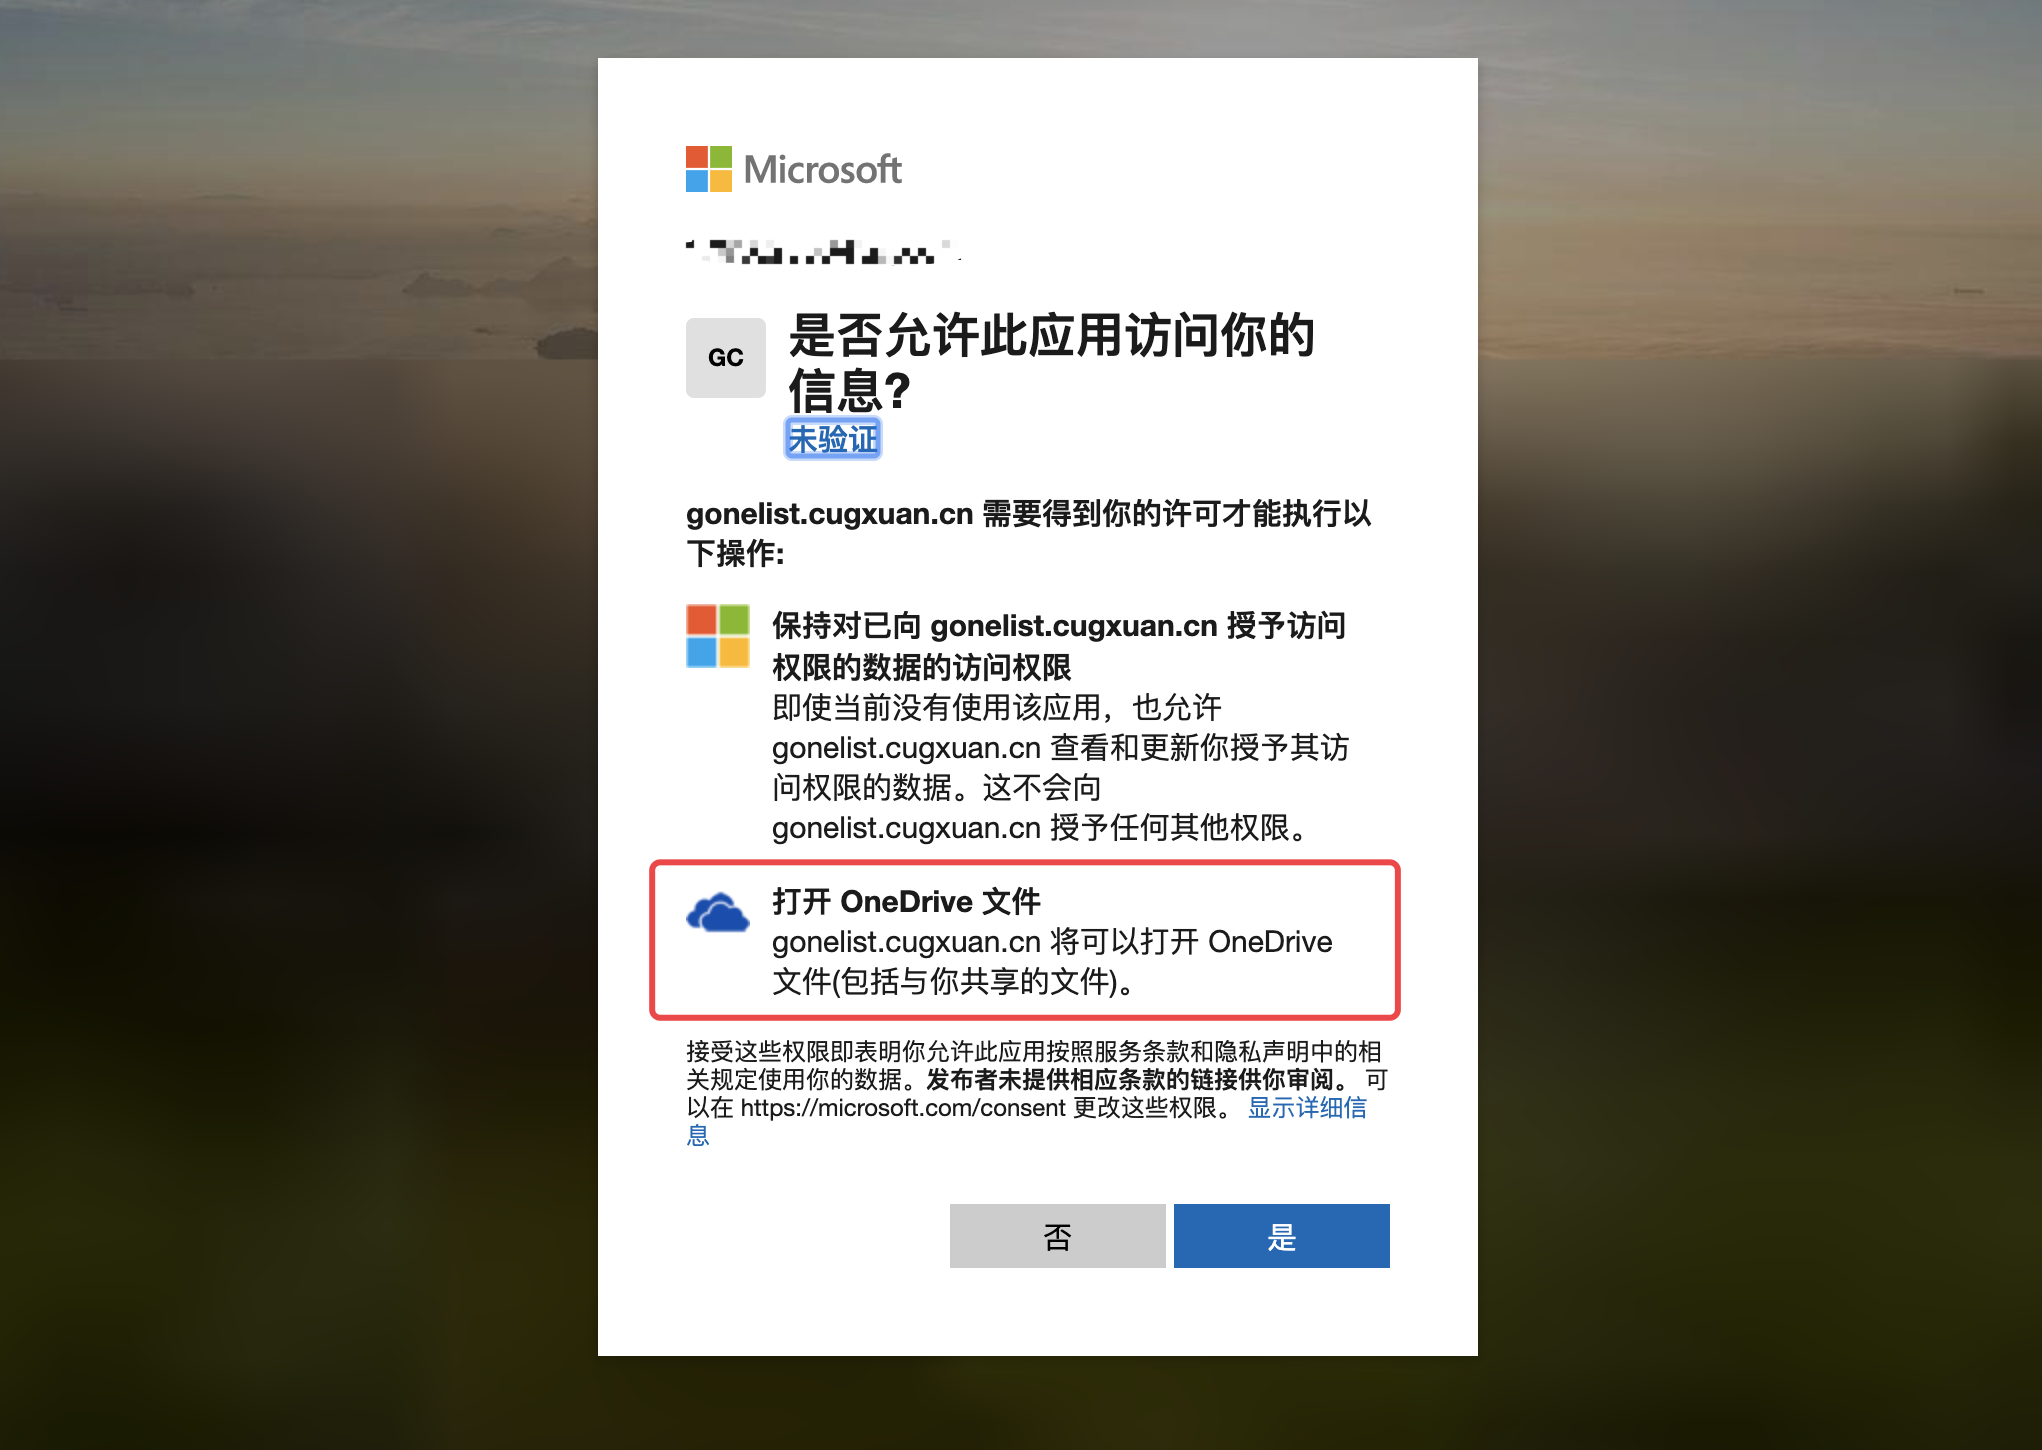
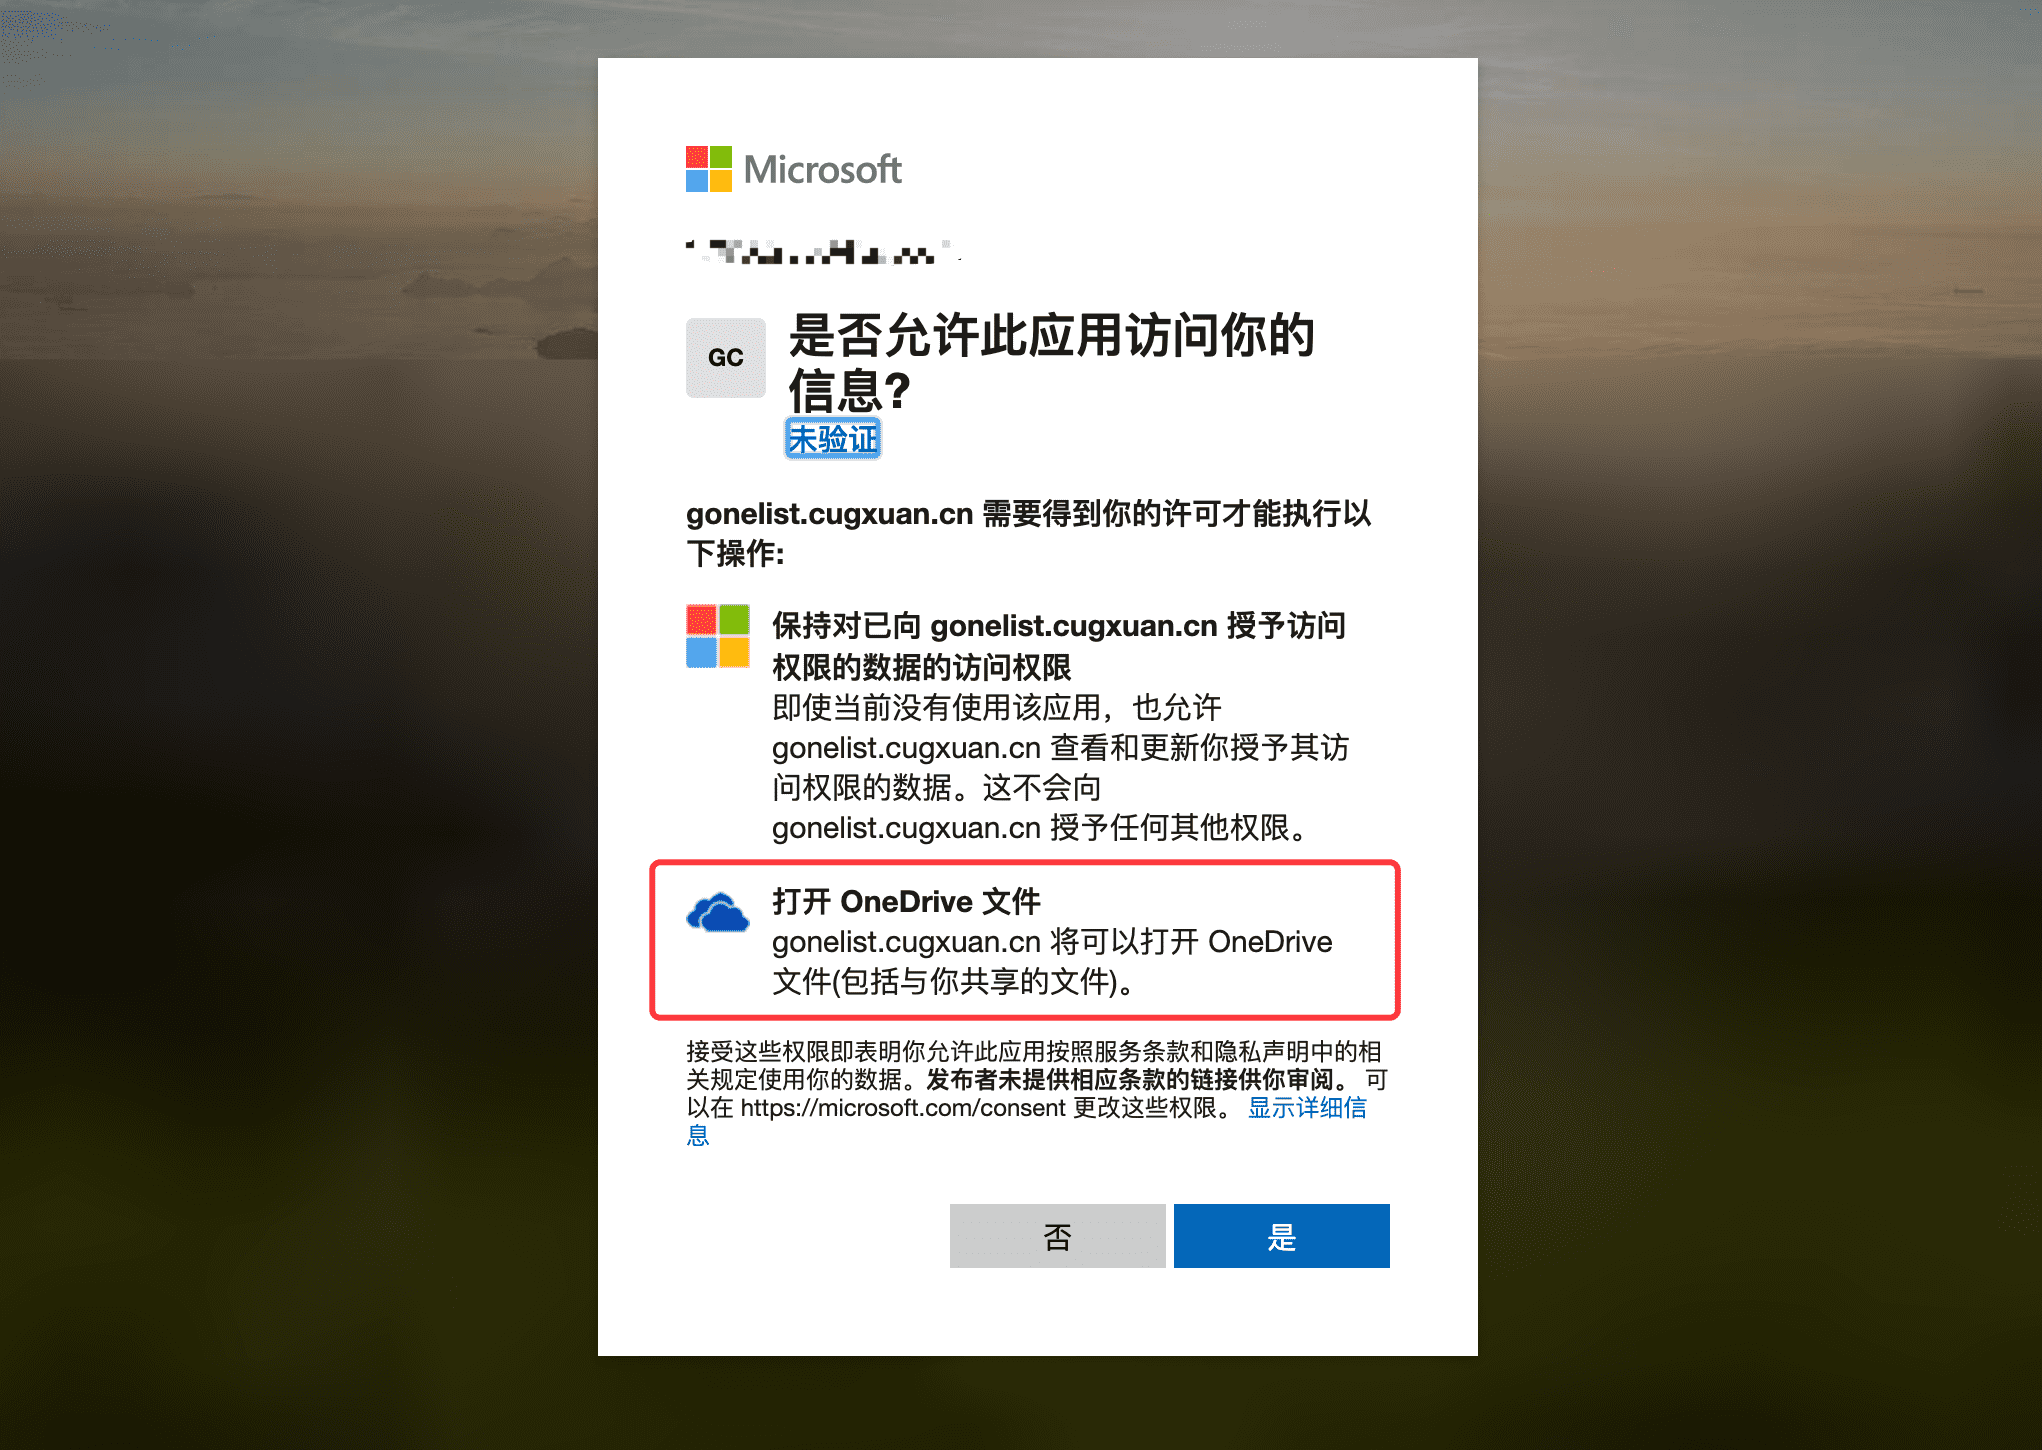
优化图片大小

diff --git a/Install.md b/Install.md
@@ -2,21 +2,27 @@
 
 [GONEList](https://github.com/cugxuan/gonelist) 是由 `golang+vue` 编写的基于 onedrive 的在线网盘，有着跨平台等特性，搭建简单。本次搭建使用的是系统是 `64 位 Ubuntu 18.04`，Linux 系统一般都可以兼容对应的操作
 
-可点击目录跳转
+{% note warning %}
+
 - [下载已编译的程序](#下载已编译的程序)
 - [创建 MicroSoft 应用](#创建-MicroSoft-应用)
 - [修改配置信息](#修改配置信息)
 - [启动和终止应用](#启动和终止应用)
 - [HTTPS](#HTTPS)
 
+{% endnote %}
+
 # 下载已编译的程序
 
-在 [Github-Release](https://github.com/cugxuan/gonelist/releases) 下载平台对应的二进制文件，并且解压进入
+在 [Github-Release](https://github.com/cugxuan/gonelist/releases) 或者 [gonelist-release](https://gonelist.cugxuan.cn/#/gonelist-release) 下载您使用平台对应的二进制文件，并且解压进入
 
 ```
-$ wget https://github.com/cugxuan/gonelist/releases/download/v0.1/gonelist_linux_amd64.tar.gz
-$ tar -zxf gonelist_linux_amd64.tar.gz
-$ cd gonelist_linux_amd64/
+// 下载 Linux 版
+$ wget https://gonelist.cugxuan.cn/d/gonelist-release/gonelist_linux_amd64.tar.gz
+// 下载 github release 也可以，但下载最新版
+$ wget https://github.com/cugxuan/gonelist/releases/download/v0.2/gonelist_linux_amd64.tar.gz
+// 解压进入文件夹
+$ tar -zxf gonelist_linux_amd64.tar.gz && cd gonelist_linux_amd64/
 ```
 
 # 创建 MicroSoft 应用
@@ -66,7 +72,7 @@ $ cd gonelist_linux_amd64/
     "port": 8000,
     // 自动刷新的时间单位是分钟，默认 10 分钟，不要超过 1 小时
     "refresh_time": 10,
-    // 登陆成功后，跳转的 URL，可不设置
+    // 登陆成功后，跳转的 URL，可不设置，新版已自动跳转
     "site_url": "http://localhost:8000",
     // 自定义 onedrive 的子文件夹
     "folder_sub": "/"
@@ -96,11 +102,11 @@ $ kill 21020
 ![allow-auth](./img/install/allow-auth.png)
 
 如果是在本地部署，登陆成功会跳转到首页，此时已经完成部署。
-如果是在服务器部署，登陆成功会跳转到`http://localhost:8000/auth?code=xxx`，将当前网址改成 `http://yoursite:8000/auth?code=xxx` 再回车访问即可，登陆成功又会重定向到 `http://localhost:8000`，此时就可以访问你的网站 `http://yoursite:8000`
+如果是在服务器部署，登陆成功会跳转到`http://localhost:8000/auth?code=xxx`，将当前网址改成 `http://yoursite:8000/auth?code=xxx` 再回车等待文件加载后，会自动跳转你的网站 `http://yoursite:8000`
 
 # HTTPS
 
-如果你的域名申请了 HTTPS 证书，可以通过 nginx 反向代理。此时注意 `config.json` 中的 `bind_global` 设置为 `false`（作用就是不会让外部通过 http 访问），然后修改 nginx 设置，以我的 `https://gonelist.cugxuan.cn`，腾讯云的免费证书为例
+如果你的域名申请了 HTTPS 证书，可以通过 nginx 反向代理。**建议将** `config.json` 中的 `bind_global` 设置为 `false`（作用就是不会让外部通过 http 访问），然后修改 nginx 设置，以我的 `https://gonelist.cugxuan.cn`，腾讯云的免费证书为例
 
 ```
 $ cd /etc/nginx/sites-enabled
